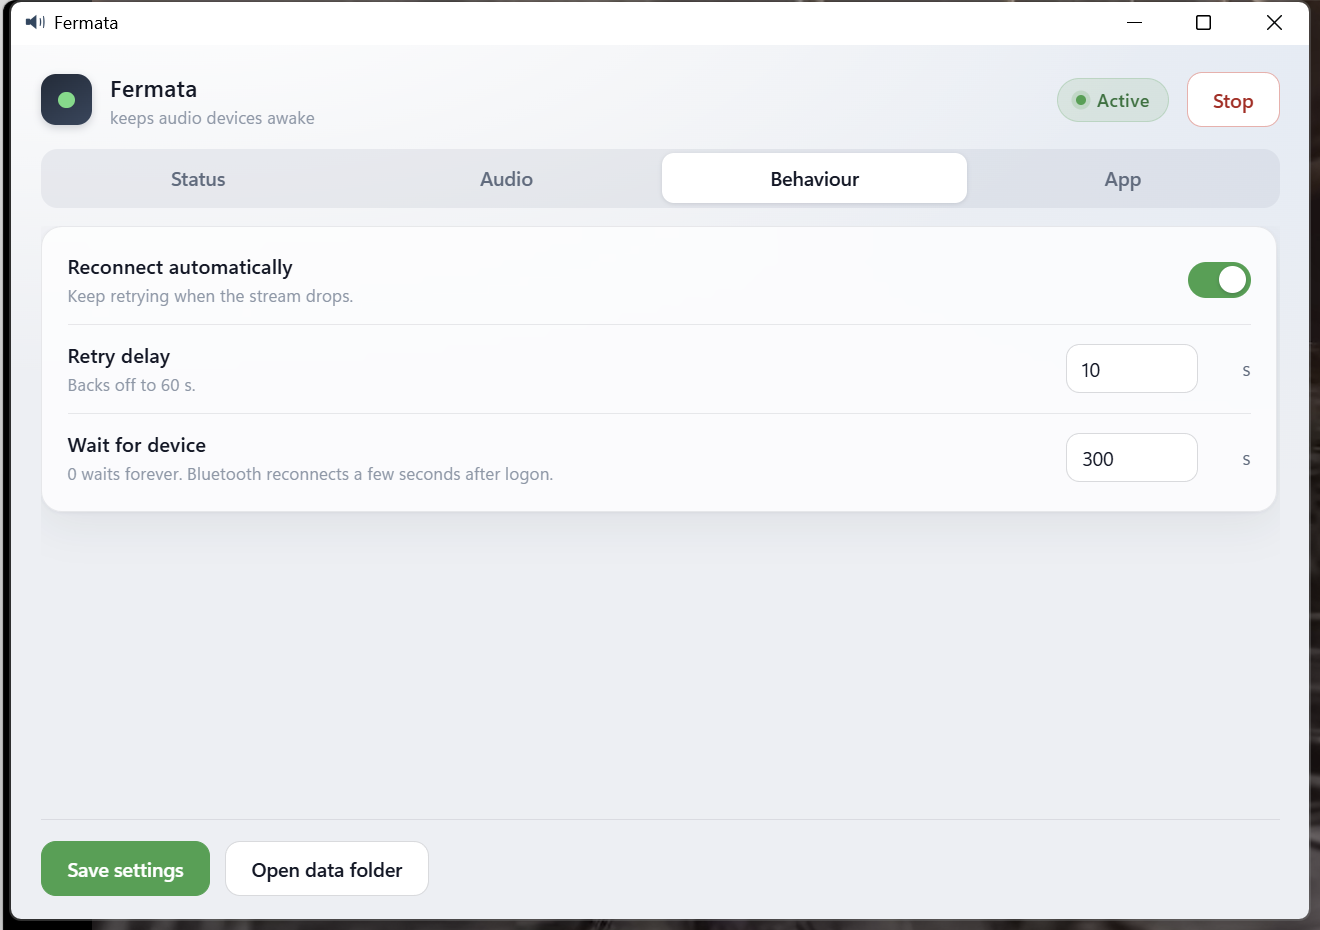
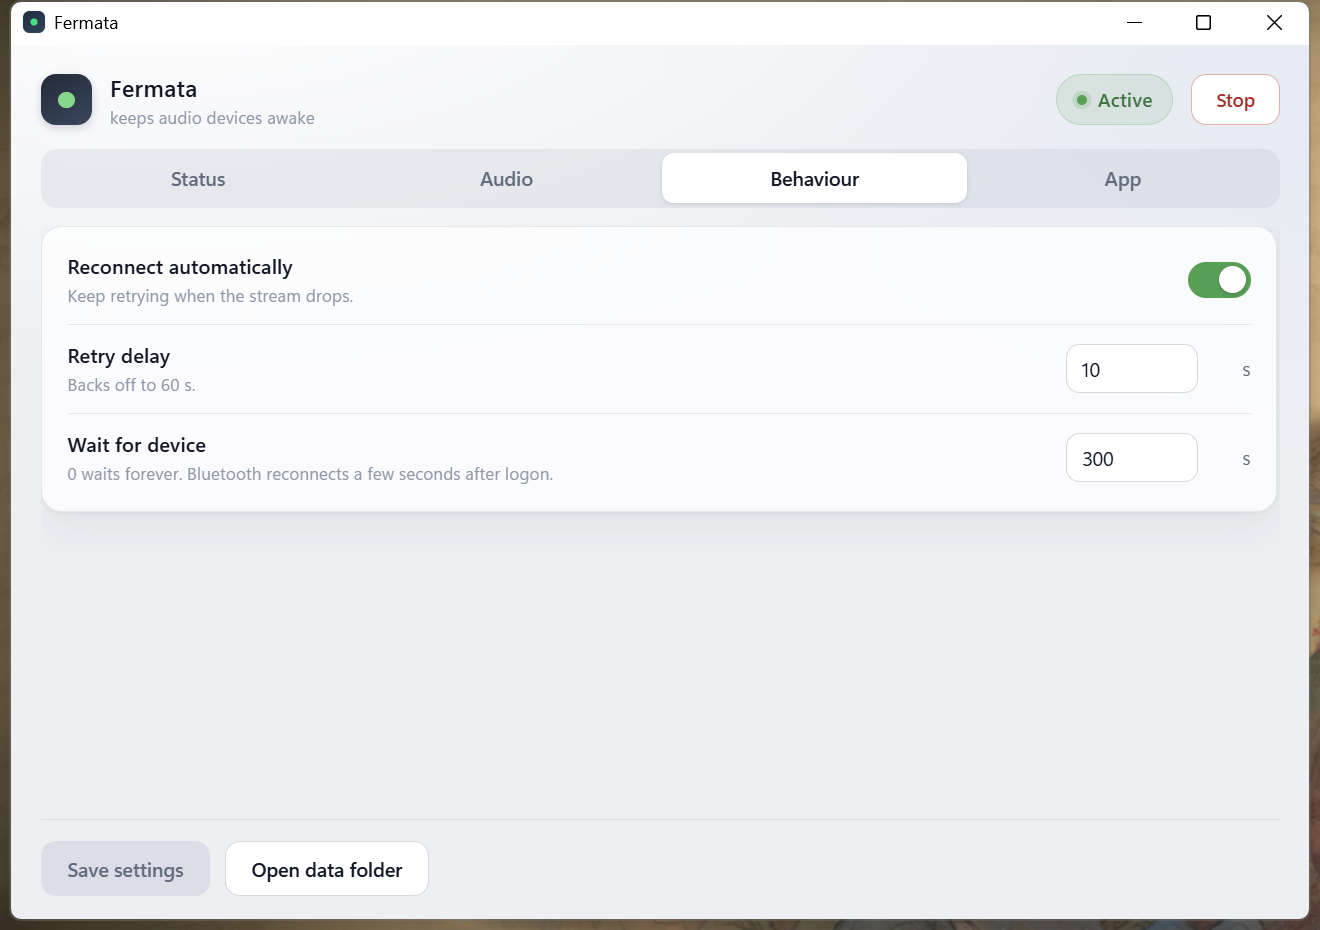
ui: make Save a real unsaved-changes indicator and align header controls

diff --git a/app/ui/index.html b/app/ui/index.html
@@ -60,13 +60,20 @@
        white-space:nowrap;overflow:hidden;text-overflow:ellipsis}
   .spacer{flex:1}
 
+  /* The pill and the Start/Stop button share one height and one type size.
+     They used to drift apart (6px vs 9px padding, 12px vs 13px type), which
+     read as two controls of different weight sitting on the same row. */
   .status-pill{
-    display:inline-flex;align-items:center;gap:7px;flex:none;
-    padding:6px 12px;border-radius:999px;
-    font-size:12px;font-weight:600;letter-spacing:.02em;
+    display:inline-flex;align-items:center;justify-content:center;gap:7px;flex:none;
+    height:34px;padding:0 13px;border-radius:999px;
+    font-size:12.5px;font-weight:600;letter-spacing:.02em;
     background:rgba(148,163,184,.16);color:var(--muted);
     border:1px solid transparent;
     transition:background .25s,color .25s,border-color .25s;
+  }
+  header > .btn{
+    height:34px;padding:0 16px;font-size:12.5px;
+    display:inline-flex;align-items:center;justify-content:center;
   }
   .status-pill .dot{width:7px;height:7px;border-radius:50%;background:var(--idle)}
   .status-pill.running{background:var(--accent-soft);color:#12743a;border-color:rgba(21,163,74,.22)}
@@ -187,6 +194,12 @@
   .btn.danger:hover{background:var(--danger-soft)}
   .btn.sm{padding:7px 13px;font-size:12.5px}
   .btn:disabled{opacity:.5;cursor:default}
+  /* A clean form is an explicitly grey button, not a faded green one:
+     the colour is what says "nothing to save here". */
+  #btnSave:disabled{
+    background:rgba(148,163,184,.22);border-color:transparent;
+    color:var(--muted);opacity:1;
+  }
 
   /* ---------- footer ---------- */
   footer{
@@ -473,6 +486,7 @@ const I18N = {
     'lang.auto':'Auto (system)',
     'unit.hz':'Hz','unit.seconds':'s','unit.h':'h','unit.m':'m','unit.s':'s',
     'note.saved':'Saved','note.failed':'Could not save',
+    'note.noChanges':'No unsaved changes','tip.noChanges':'Nothing has changed since the last save',
     'note.autostartFailed':'Could not change autostart',
   },
   zh: {
@@ -518,6 +532,7 @@ const I18N = {
     'lang.auto':'跟随系统',
     'unit.hz':'Hz','unit.seconds':'秒','unit.h':'小时','unit.m':'分','unit.s':'秒',
     'note.saved':'已保存','note.failed':'保存失败',
+    'note.noChanges':'没有未保存的更改','tip.noChanges':'自上次保存后没有更改',
     'note.autostartFailed':'无法修改开机自启',
   }
 };
@@ -599,8 +614,11 @@ function paintLevel(){
   $('levelVal').textContent = v.toFixed(0) + ' dBFS';
 }
 
-function paintSeg(){
-  const cur = state.settings.signal_type;
+function paintSeg(cur){
+  // No argument = render from saved settings (used by fillForm). A click
+  // passes the button just picked; re-reading state.settings here used to
+  // snap the highlight straight back, making the three buttons do nothing.
+  if (!cur) cur = state.settings.signal_type;
   $('typeSeg').querySelectorAll('button').forEach(b =>
     b.classList.toggle('on', b.dataset.v === cur));
   $('rowFreq').classList.toggle('hidden', cur !== 'sine');
@@ -679,6 +697,7 @@ async function refresh(full){
     applyStatic();
     await loadDevices();
     fillForm();
+    markClean();          // form now mirrors the file: nothing to save
   } else {
     state.status = await window.pywebview.api.status();
   }
@@ -702,14 +721,61 @@ function collect(){
   });
 }
 
+/* ---- unsaved-changes state -------------------------------------------
+   Save is a state readout, not only an action: grey and disabled while the
+   form matches what is on disk, green only while there is something to save.
+   Comparing a serialised snapshot instead of counting edit events means that
+   undoing a change by hand turns it grey again, and a programmatic fillForm()
+   (which writes .value/.checked directly and fires no events) is never
+   mistaken for a user edit. */
+let savedSnapshot = null;
+let noteTimer = null;
+const formSnapshot = () => JSON.stringify(collect());
+const formDirty = () => !!state && savedSnapshot !== null
+                        && formSnapshot() !== savedSnapshot;
+
+function renderSaveNote(){
+  clearTimeout(noteTimer);
+  const n = $('saveNote');
+  n.textContent = formDirty() ? '' : t('note.noChanges');
+  n.className = 'note';
+}
+
+function updateSaveButton(){
+  const dirty = formDirty();
+  $('btnSave').disabled = !dirty;
+  $('btnSave').title = dirty ? '' : t('tip.noChanges');
+}
+
+function markClean(){
+  savedSnapshot = formSnapshot();
+  updateSaveButton();
+  renderSaveNote();
+}
+
+function markDirty(){
+  updateSaveButton();
+  clearTimeout(noteTimer);
+  $('saveNote').textContent = '';
+  $('saveNote').className = 'note';
+}
+
 function flashNote(msg, ok){
+  clearTimeout(noteTimer);
   const n = $('saveNote');
   n.textContent = msg;
   n.className = 'note ' + (ok ? 'saved' : 'error');
-  setTimeout(() => { n.textContent = ''; n.className = 'note'; }, 2400);
+  noteTimer = setTimeout(renderSaveNote, 2400);
 }
 
 /* ---- events ---- */
+/* Any edit inside the scrolling form marks it dirty. Buttons in the header
+   and footer are outside <main>, so Start/Stop/Rescan cannot trigger this. */
+['input', 'change'].forEach(evt =>
+  document.addEventListener(evt, e => {
+    if (state && e.target.closest && e.target.closest('main')) markDirty();
+  }));
+
 $('tabs').onclick = e => {
   const b = e.target.closest('button'); if (!b) return;
   $('tabs').querySelectorAll('button').forEach(x => x.classList.toggle('on', x === b));
@@ -729,8 +795,13 @@ $('btnToggle').onclick = async () => {
 $('btnRefresh').onclick = () => refresh(true);
 
 $('btnSave').onclick = async () => {
+  if (!formDirty()) return;
+  $('btnSave').disabled = true;
   const res = await window.pywebview.api.save_settings(collect());
-  await refresh(true);
+  // A failed save must NOT reload the form: that would silently discard the
+  // edits the user can no longer see, while the button went grey anyway.
+  if (res.ok) await refresh(true);          // re-read from disk, then markClean()
+  else updateSaveButton();                  // keep edits, stay green, allow retry
   flashNote(res.ok ? t('note.saved') : t('note.failed') + ': ' + res.message, res.ok);
 };
 
@@ -738,8 +809,8 @@ $('btnFolder').onclick = () => window.pywebview.api.open_data_folder();
 
 $('typeSeg').onclick = e => {
   const b = e.target.closest('button'); if (!b) return;
-  $('typeSeg').querySelectorAll('button').forEach(x => x.classList.toggle('on', x === b));
-  paintSeg();
+  paintSeg(b.dataset.v);
+  markDirty();          // segmented buttons fire click, not input/change
 };
 
 $('level').oninput = () => {

diff --git a/README.zh-CN.md b/README.zh-CN.md
@@ -107,6 +107,7 @@ Marshall Stanmore II 就是这种情况：**静音 20 分钟后进入待机**—
 - **关闭窗口不会退出。** 程序驻留托盘，要真正退出请用托盘菜单里的「退出」。
 - **托盘图标中间的圆点颜色就是状态**：绿色＝正在喂信号，琥珀色＝等待中或重连中，红色＝出错，灰色＝已停止。外面那块深色圆角方块与窗口左上角是同一个标记。
 - 勾上**开机自启**后它会在登录时自行启动，并最小化到托盘。
+- **「保存设置」按钮在表单没有改动时是灰色的**（右侧显示「没有未保存的更改」）；只要有待保存的改动就变绿，保存成功后、或把值手动改回去，又会恢复灰色。保存失败不会清掉你填的内容，按钮保持绿色可以重试。
 
 这是文件夹版，要移动就整个文件夹一起搬。EXE 离不开同目录的 `_internal`，只拷 EXE 是不能用的。
 

diff --git a/README.md b/README.md
@@ -177,6 +177,10 @@ After that:
   waiting or reconnecting, red = error, grey = stopped. The dark rounded square
   around it is the same mark you see in the window header.
 - Tick **Launch at login** and it starts by itself, minimized to the tray.
+- **Save settings** stays grey while nothing has changed (the footer reads
+  *No unsaved changes*). It turns green as soon as an edit is pending, and goes
+  grey again after saving -- or if you put the value back by hand. A failed
+  save keeps your edits and the green button, so you can retry.
 
 It is a folder build, so move the whole folder. The EXE needs its `_internal`
 sibling; copying the EXE alone will not work.
